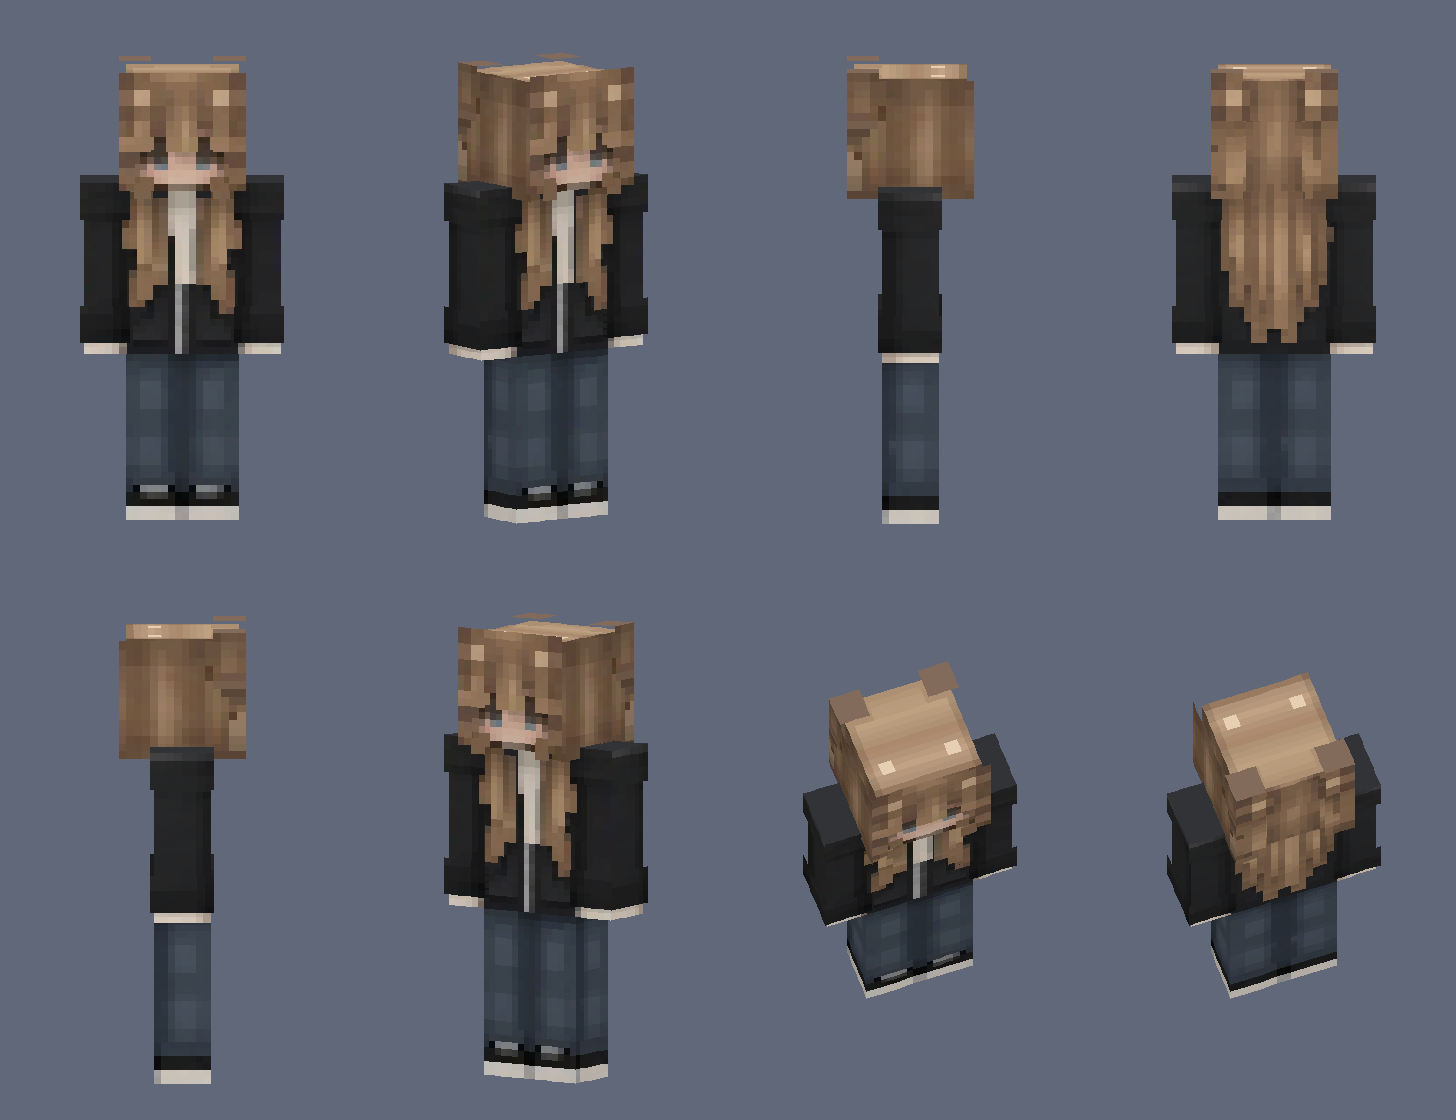
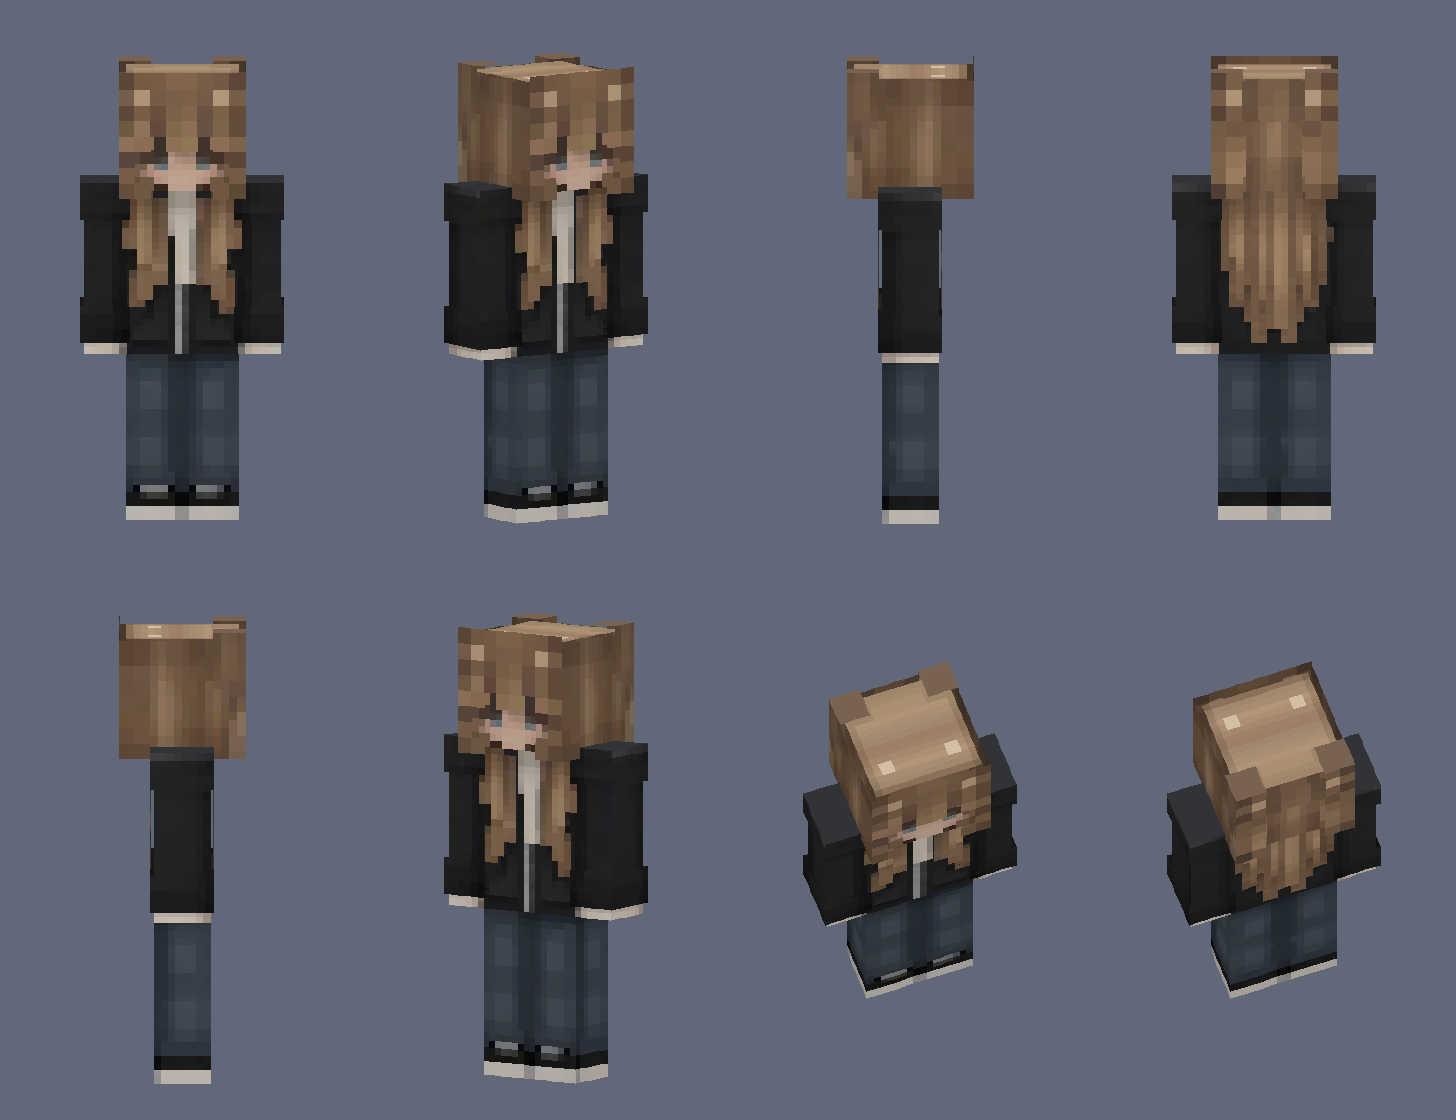
Crisp head blocks, calmer side strands, attached ears, closer colours
Claude-Session: https://claude.ai/code/session_01E8KVnok6Fx7faRrVpDBB9K

diff --git a/minecraft-skin/make_skin.py b/minecraft-skin/make_skin.py
@@ -6,7 +6,7 @@ HI = Image.open("ref/front_close.png").convert("RGB"); KH = HI.width/924      # 
 LO = Image.open("reference.png").convert("RGB")
 BK = Image.open("ref/back_close.png").convert("RGB")                          # sharp close-up of the back view
 QH = Image.open("ref/head_quarter.png").convert("RGB")                        # sharp close-up of the head, 3/4 from above
-GAIN = 1.15
+GAIN = 1.06
 
 def bright(c): return tuple(min(255, int(v*GAIN+0.5)) for v in c)
 def is_hair(c):
@@ -40,6 +40,13 @@ def fill_rows(g):                                   # replace non-hair / shadow-
         near = sorted((abs(i-ii), ii) for ii in range(w) if ok(g[ii, j]))
         out[i, j] = g[near[0][1], j] if near else (121, 95, 72)
     return out
+def vsmooth(g, where):                              # vertical median filter -> long calm strands
+    out = dict(g); h = max(j for _, j in g)+1
+    for (i, j), c in g.items():
+        if not where(i, j): continue
+        win = sorted(g[i, jj] for jj in range(max(0, j-2), min(h, j+3)) if where(i, jj))
+        out[i, j] = win[len(win)//2]
+    return out
 def chunky(g, n=2):                                 # 8x8 blocks -> 16x16 texels
     return {(i*n+a, j*n+b): c for (i, j), c in g.items() for a in range(n) for b in range(n)}
 
@@ -65,16 +72,29 @@ def build(slim=True):
             for i in range(int(2*w)): px[int(2*x)+i, int(2*y)+j] = tuple(c)+(255,)
 
     # ---------------- head ----------------
-    face = front(*HEAD, 16, 16)
-    for i in range(16):                                                    # below the chin the render shows the shirt
-        if not is_hair(face[i, 15]) and face[i, 15][0] - face[i, 15][2] < 25: face[i, 15] = face[i, 14]
-    put(8, 8, face)                                                        # face + hair (base layer)
+    fine = front(*HEAD, 16, 16)
     lit = lambda c: is_hair(c) and c[0] >= 78                              # dark blocks are shadowed hair, not hat
-    put(40, 8, face, keep=lambda i, j, c: lit(c) and lit(_hat8[i//2, j//2]))
-    bk = fill_rows(back(262, 374, 694, 806, 16, 16))
+    face = {}
+    for (i, j), c in fine.items():                                         # hair: one colour per block, like the render;
+        blk = _hat8[i//2, j//2]                                            # skin and eyes keep the finer detail
+        face[i, j] = blk if is_hair(blk) else c
+    for i in range(16):                                                    # below the chin the render shows the shirt
+        for j in (14, 15):
+            c = face[i, j]
+            if not is_hair(c) and (c[0] < 120 or c[0] - c[2] < 25): face[i, j] = face[i, 13]
+    put(8, 8, face)                                                        # face + hair (base layer)
+    put(40, 8, face, keep=lambda i, j, c: lit(_hat8[i//2, j//2]))          # fringe and locks stand out on the hat layer
+    bk = fill_rows(back(262, 374, 694, 806, 16, 16)); bk8 = back(262, 374, 694, 806, 8, 8)
+    for (i, j) in list(bk):
+        blk = bk8[i//2, j//2]
+        if (j < 6 or i < 4 or i > 11) and is_hair(blk) and blk[0] >= 72: bk[i, j] = blk
+    bk = vsmooth(bk, lambda i, j: j >= 6 and 4 <= i <= 11)
     put(24, 8, bk)
     put(56, 8, bk, keep=lambda i, j, c: (j < 6 or i < 4 or i > 11) and not (j == 0 and 4 <= i <= 11))
     side = fill_rows(quad(QH, (112, 925), (345, 958), (345, 1425), (115, 1398), 16, 16))
+    side = vsmooth(side, lambda i, j: i < 12)                              # calm vertical strands
+    for (i, j) in list(side):                                              # the curls next to the face are blocks
+        if i >= 12: side[i, j] = side[12 + 2*((i-12)//2), 2*(j//2)]
     ear = lambda i, j, c: j > 0 or i < 4                                   # top edge stays only where the ear is (back)
     put(0, 8, side); put(32, 8, side, keep=ear); put(16, 8, side, flip=True); put(48, 8, side, keep=ear, flip=True)
     top = quad(QH, (112, 925), (570, 895), (810, 925), (345, 958), 16, 16)

diff --git a/minecraft-skin/render3d.py b/minecraft-skin/render3d.py
@@ -29,8 +29,9 @@ def render(path, out, slim=True, S=14, views=((0,8),(35,8),(180,8))):
                  ((U+d+w,V),(w,d),(-hw,-hh,-hd),(k[0],0,0),(0,0,k[2]),(0,-1,0))]
                 for (tu,tv),(tw,th),O,du,dv,n in faces:
                     nz = proj(n)[2] - proj((0,0,0))[2]
-                    if nz <= 0.01: continue
-                    lit = 0.78 + 0.22*nz if n[1] == 0 else 1.0
+                    if nz <= 0.01 and not g: continue                # the outer layer is drawn double-sided, like in Bedrock
+                    lit = 0.78 + 0.22*abs(nz) if n[1] == 0 else 1.0
+                    if nz <= 0.01: lit *= 0.8
                     for j in range(int(th*R)):
                         for i in range(int(tw*R)):
                             col = T[int(tu*R)+i, int(tv*R)+j]
